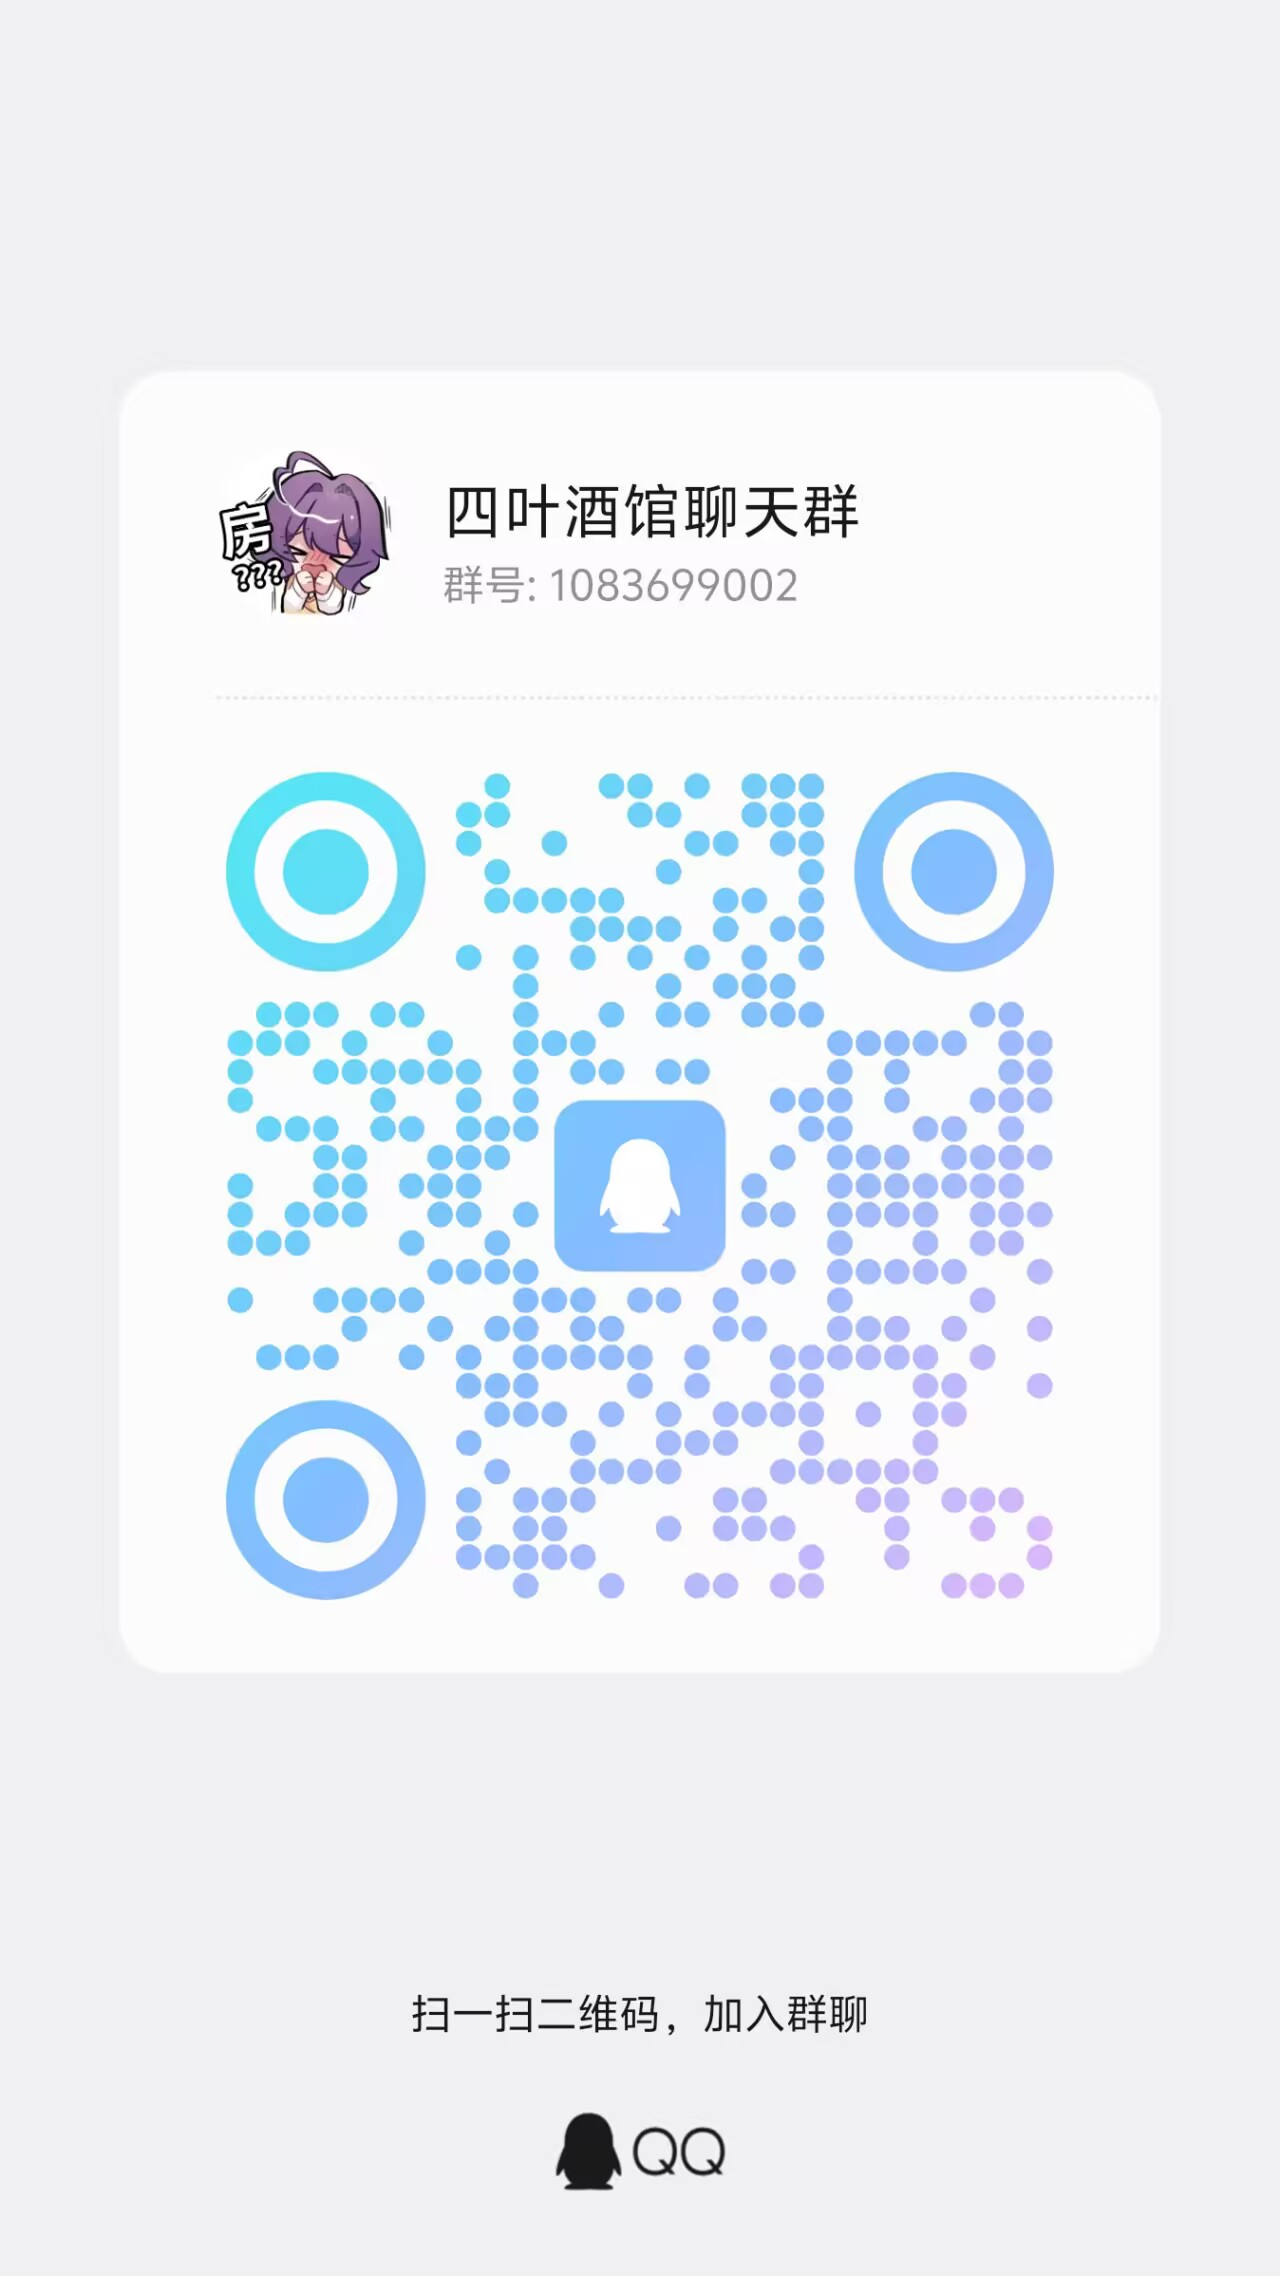
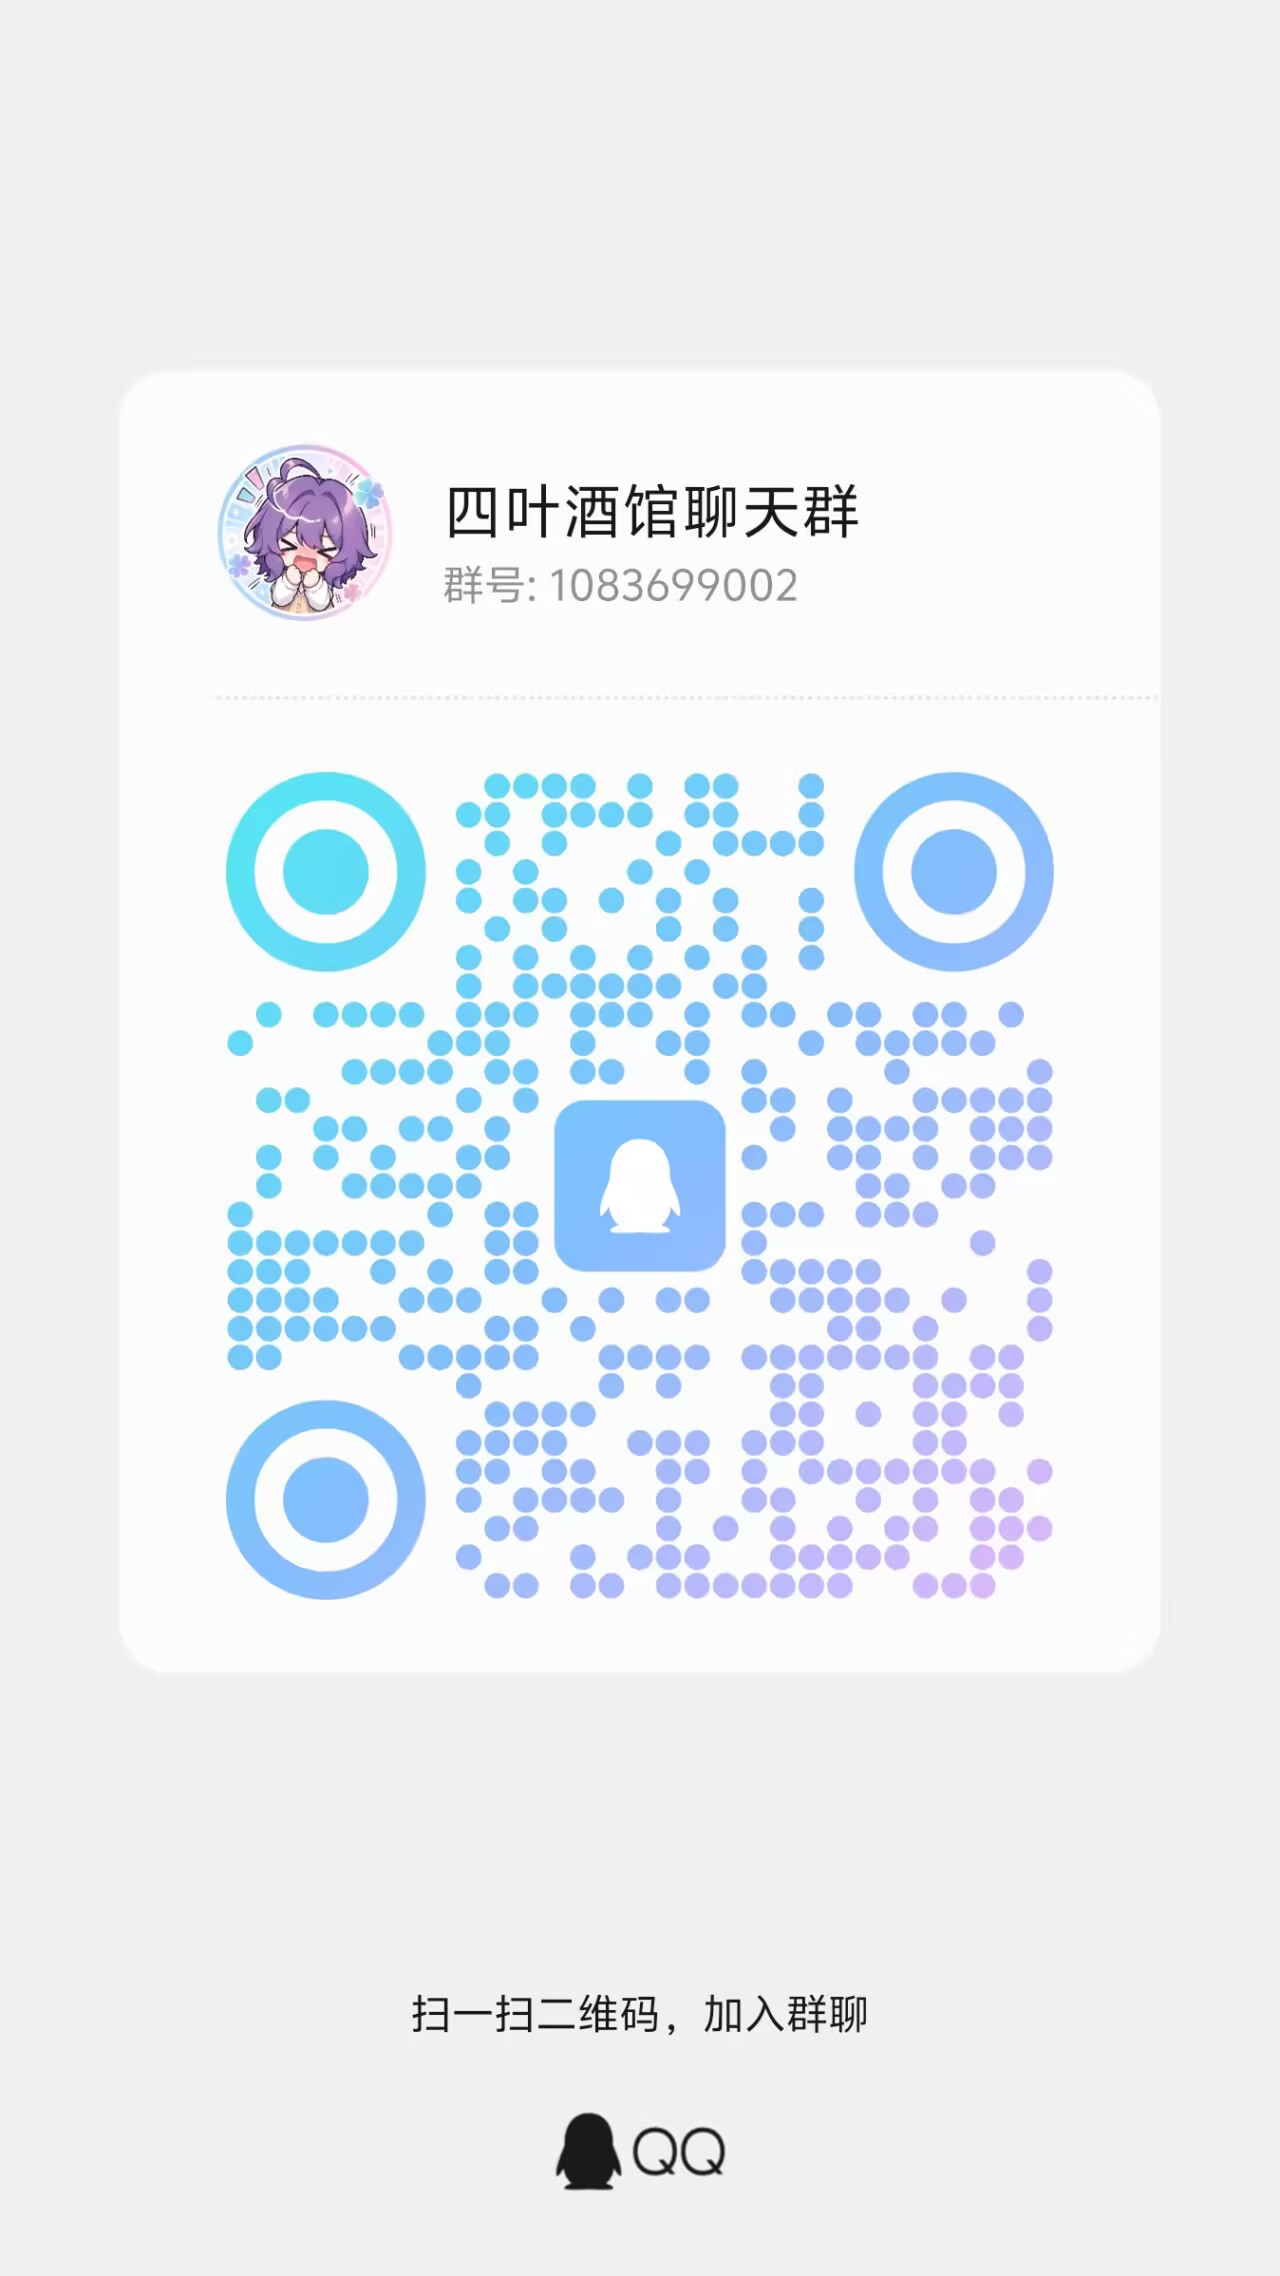
Show official QQ group QR code

Changed region(s): [[0.1562, 0.3431, 0.8125, 0.7175], [0.1562, 0.1872, 0.3125, 0.2808], [0.4375, 0.6863, 0.4688, 0.7175]]

diff --git a/README.md b/README.md
@@ -159,13 +159,11 @@ SILLYTAVERN_API_KEY
 
 ## 社区
 
-欢迎通过 [Issues](https://github.com/pqiyao/siyeAI/issues) 提交问题和建议。
+欢迎通过 [Issues](https://github.com/pqiyao/siyeAI/issues) 提交问题和建议，也欢迎加入四叶酒馆官方群：**1083699002**。
 
-<details>
-  <summary>加入官方群</summary>
-  <br>
-  <img src="docs/images/official-qq-group.jpg" alt="四叶酒馆官方群" width="280">
-</details>
+<p align="center">
+  <img src="docs/images/official-qq-group.jpg" alt="四叶酒馆官方群二维码，QQ群号 1083699002" width="360">
+</p>
 
 ## 许可证
 
